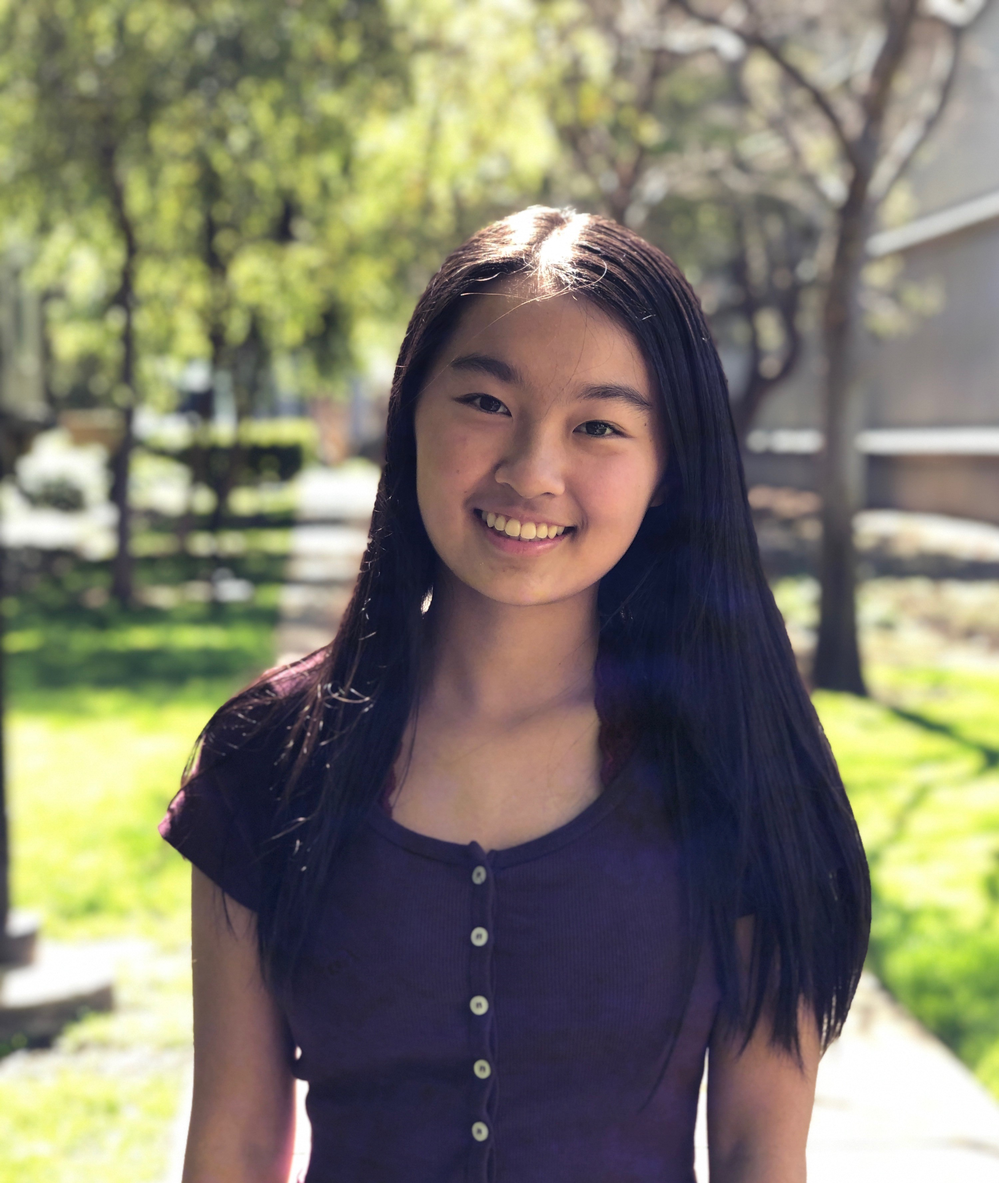
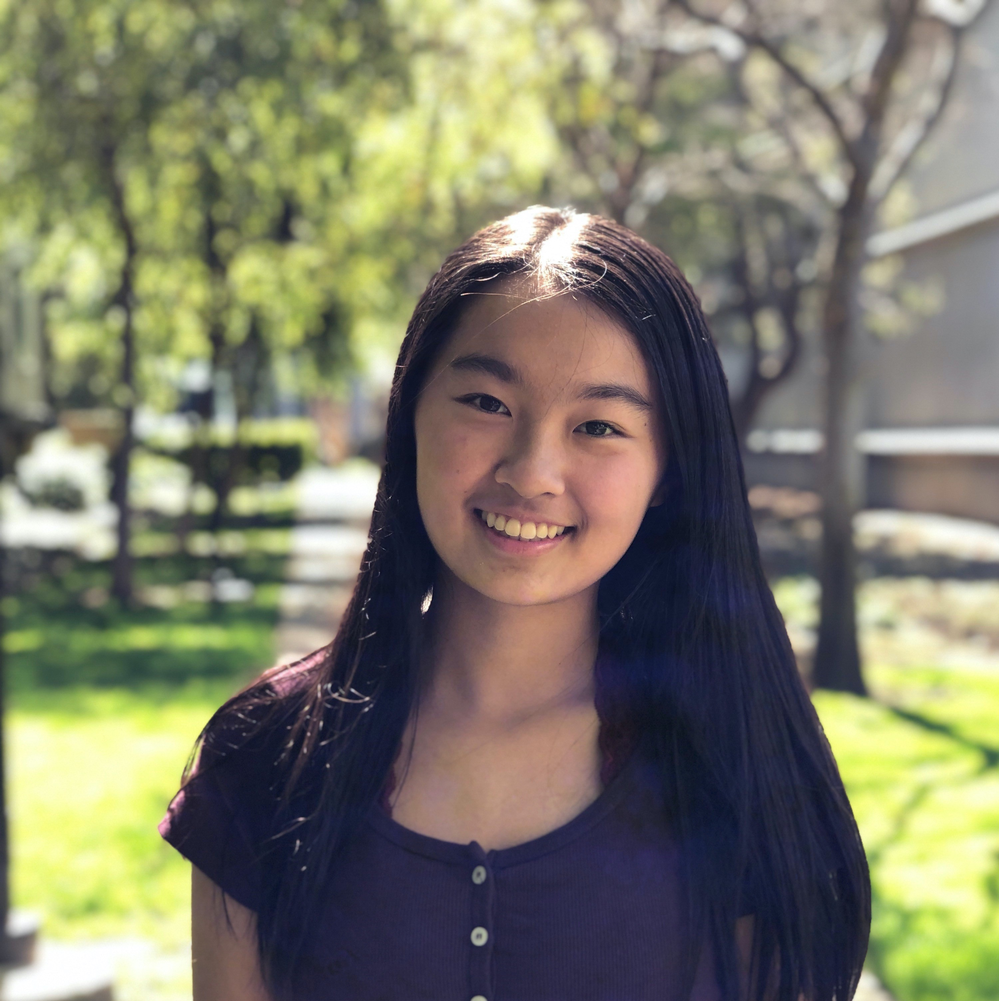
Fixed workshop numbering, resized an image, added 2018 Media

diff --git a/pastyears.html b/pastyears.html
@@ -174,7 +174,7 @@ Shadow: #2369a8;
                             <p class="text-faded mb-4">
                                 <br>
                                 <a href="http://www.digitizehackathonii.org" target="_blank">
-                                    <!-- <img src="img/pastyears/2019Website.jpeg" style="width: 100%; height:200%;"> -->
+                                    <img src="img/pastyears/2019Website.jpeg" style="width: 100%; height:200%;">
                                 </a>                               </p>
                         </div>
                         <!--END FIRST QUESTION-->
@@ -195,8 +195,8 @@ Shadow: #2369a8;
                             <h4 class="section-heading text-white">2018 Media</h4>
                             <p class="text-faded mb-4">
                                 <br>
-                                <a href="" target="_blank">
-                                    <!-- <img src="img/pastyears/.jpeg" style="width: 100%; height:200%;"> -->
+                                <a href="https://photos.app.goo.gl/2uuUNNJgpSt7G5Yg6" target="_blank">
+                                    <img src="img/pastyears/2018Media.jpeg" style="width: 100%; height:200%;">
                                 </a>                               </p>
                         </div>
     

diff --git a/mentor.html b/mentor.html
@@ -322,7 +322,7 @@ Shadow: #2369a8;
                     </li>
 
                     <li style="background-color: #1e73be; color:#fff;font-size:20px;" class="list-group-item">
-                        <p class="font-weight-light display-5">Workshop #6 : Presentation Skills + Pitching</p>
+                        <p class="font-weight-light display-5">Workshop #5 : Presentation Skills + Pitching</p>
                     </li>
                 </ul>
             </div>
